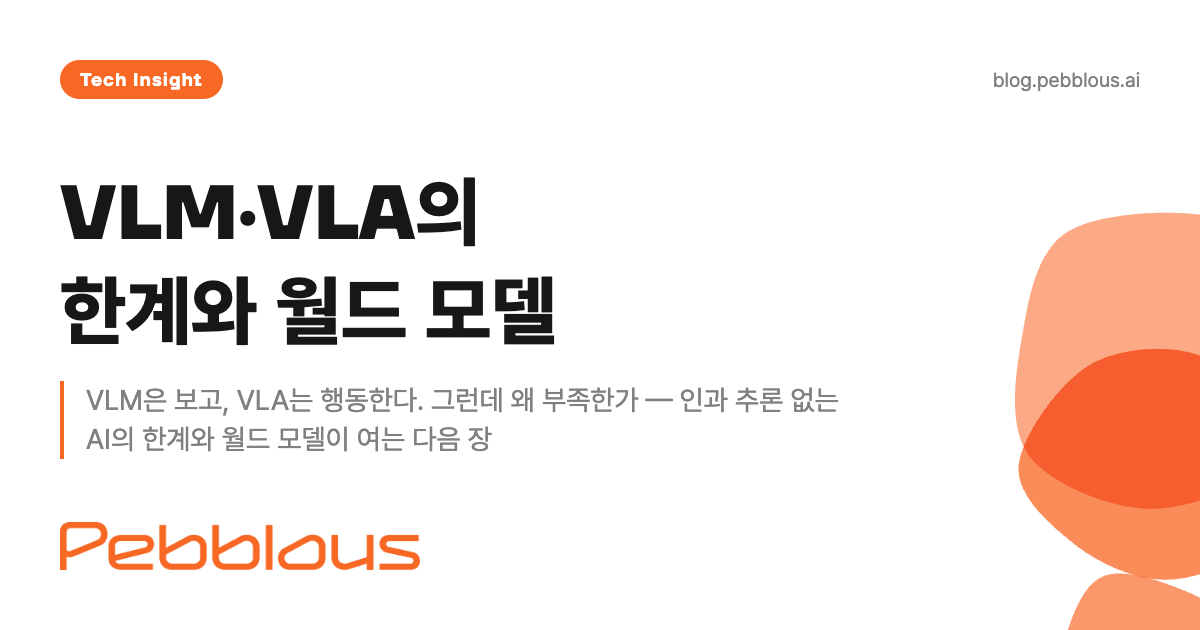
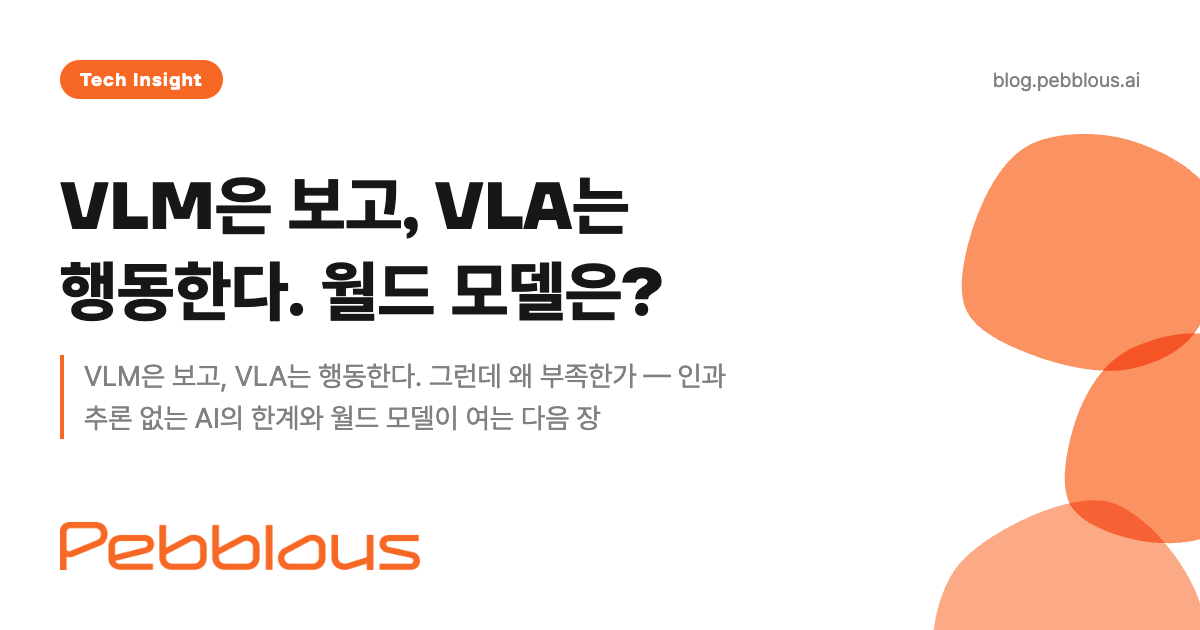
chore(titles): 제목·메타 일괄 교정 1건/2필드 (제목 검토 콘솔)\n\n- world-model-rise-ko:\n    제목: 눈이 있어도 세계를 모른다 — VLM·VLA를 넘어 월드 모델로 → VLM은 보고, VLA는 행동한다. 월드 모델은?\n    부제목: VLM은 보고, VLA는 행동한다. 그런데 왜 부족한가 — 인과 추론과 미래 예측이 없는 AI가 맞닥뜨리는 한계, 그리고 월드 모델이 여는 다음 장 → 인과 추론과 미래 예측이 없는 AI가 맞닥뜨리는 한계, 그리고 월드 모델이 여는 다음 장

Changed region(s): [[0.0308, 0.2714, 0.7092, 0.7238], [0.7708, 0.2111, 1.0, 1.0]]

diff --git a/project/AgenticAI/world-model-rise/ko/index.html b/project/AgenticAI/world-model-rise/ko/index.html
@@ -4,7 +4,7 @@
 <head>
     <meta charset="UTF-8">
     <meta name="viewport" content="width=device-width, initial-scale=1.0">
-    <title>VLM·VLA의 한계와 월드 모델 — Physical AI 다음 아키텍처 | 페블러스</title>
+    <title>VLM은 보고, VLA는 행동한다. 월드 모델은? | 페블러스</title>
     <meta name="author" content="Pebblous Data Communication Team">
     <meta name="language" content="Korean">
     <meta http-equiv="content-language" content="ko">
@@ -23,8 +23,8 @@
     <link rel="alternate" hreflang="x-default" href="https://blog.pebblous.ai/project/AgenticAI/world-model-rise/ko/">
 
     <!-- Open Graph -->
-    <meta name="og-image-title" content="VLM·VLA의 한계와 월드 모델">
-    <meta property="og:title" content="눈이 있어도 세계를 모른다 — VLM·VLA를 넘어 월드 모델로">
+    <meta name="og-image-title" content="VLM은 보고, VLA는 행동한다. 월드 모델은?">
+    <meta property="og:title" content="VLM은 보고, VLA는 행동한다. 월드 모델은?">
     <meta property="og:description" content="VLM은 보고, VLA는 행동한다. 그런데 왜 부족한가 — 인과 추론 없는 AI의 한계와 월드 모델이 여는 다음 장">
     <meta property="og:type" content="article">
     <meta property="og:url" content="https://blog.pebblous.ai/project/AgenticAI/world-model-rise/ko/">
@@ -38,7 +38,7 @@
 
     <!-- Twitter Card -->
     <meta name="twitter:card" content="summary_large_image">
-    <meta name="twitter:title" content="눈이 있어도 세계를 모른다 — VLM·VLA를 넘어 월드 모델로">
+    <meta name="twitter:title" content="VLM은 보고, VLA는 행동한다. 월드 모델은?">
     <meta name="twitter:description" content="VLM·VLA의 한계와 월드 모델 — Physical AI 다음 아키텍처를 분석한다">
     <meta name="twitter:image" content="https://blog.pebblous.ai/project/AgenticAI/world-model-rise/ko/image/index.png">
     <meta name="twitter:image:alt" content="눈이 있어도 세계를 모른다 — 월드 모델의 부상">
@@ -773,9 +773,9 @@
     <script src="/scripts/common-utils.js?v=20260412"></script>
     <script>
     PebblousPage.init({
-        mainTitle: "눈이 있어도 세계를 모른다 — VLM·VLA를 넘어 월드 모델로",
-        subtitle: "VLM은 보고, VLA는 행동한다. 그런데 왜 부족한가 — 인과 추론과 미래 예측이 없는 AI가 맞닥뜨리는 한계, 그리고 월드 모델이 여는 다음 장",
-        pageTitle: "VLM·VLA의 한계와 월드 모델 — Physical AI 다음 아키텍처 | 페블러스",
+        mainTitle: "VLM은 보고, VLA는 행동한다. 월드 모델은?",
+        subtitle: "인과 추론과 미래 예측이 없는 AI가 맞닥뜨리는 한계, 그리고 월드 모델이 여는 다음 장",
+        pageTitle: "VLM은 보고, VLA는 행동한다. 월드 모델은? | 페블러스",
         publishDate: "2026-03-28",
         publisher: "(주)페블러스 데이터 커뮤니케이션팀",
         defaultTheme: "light",
